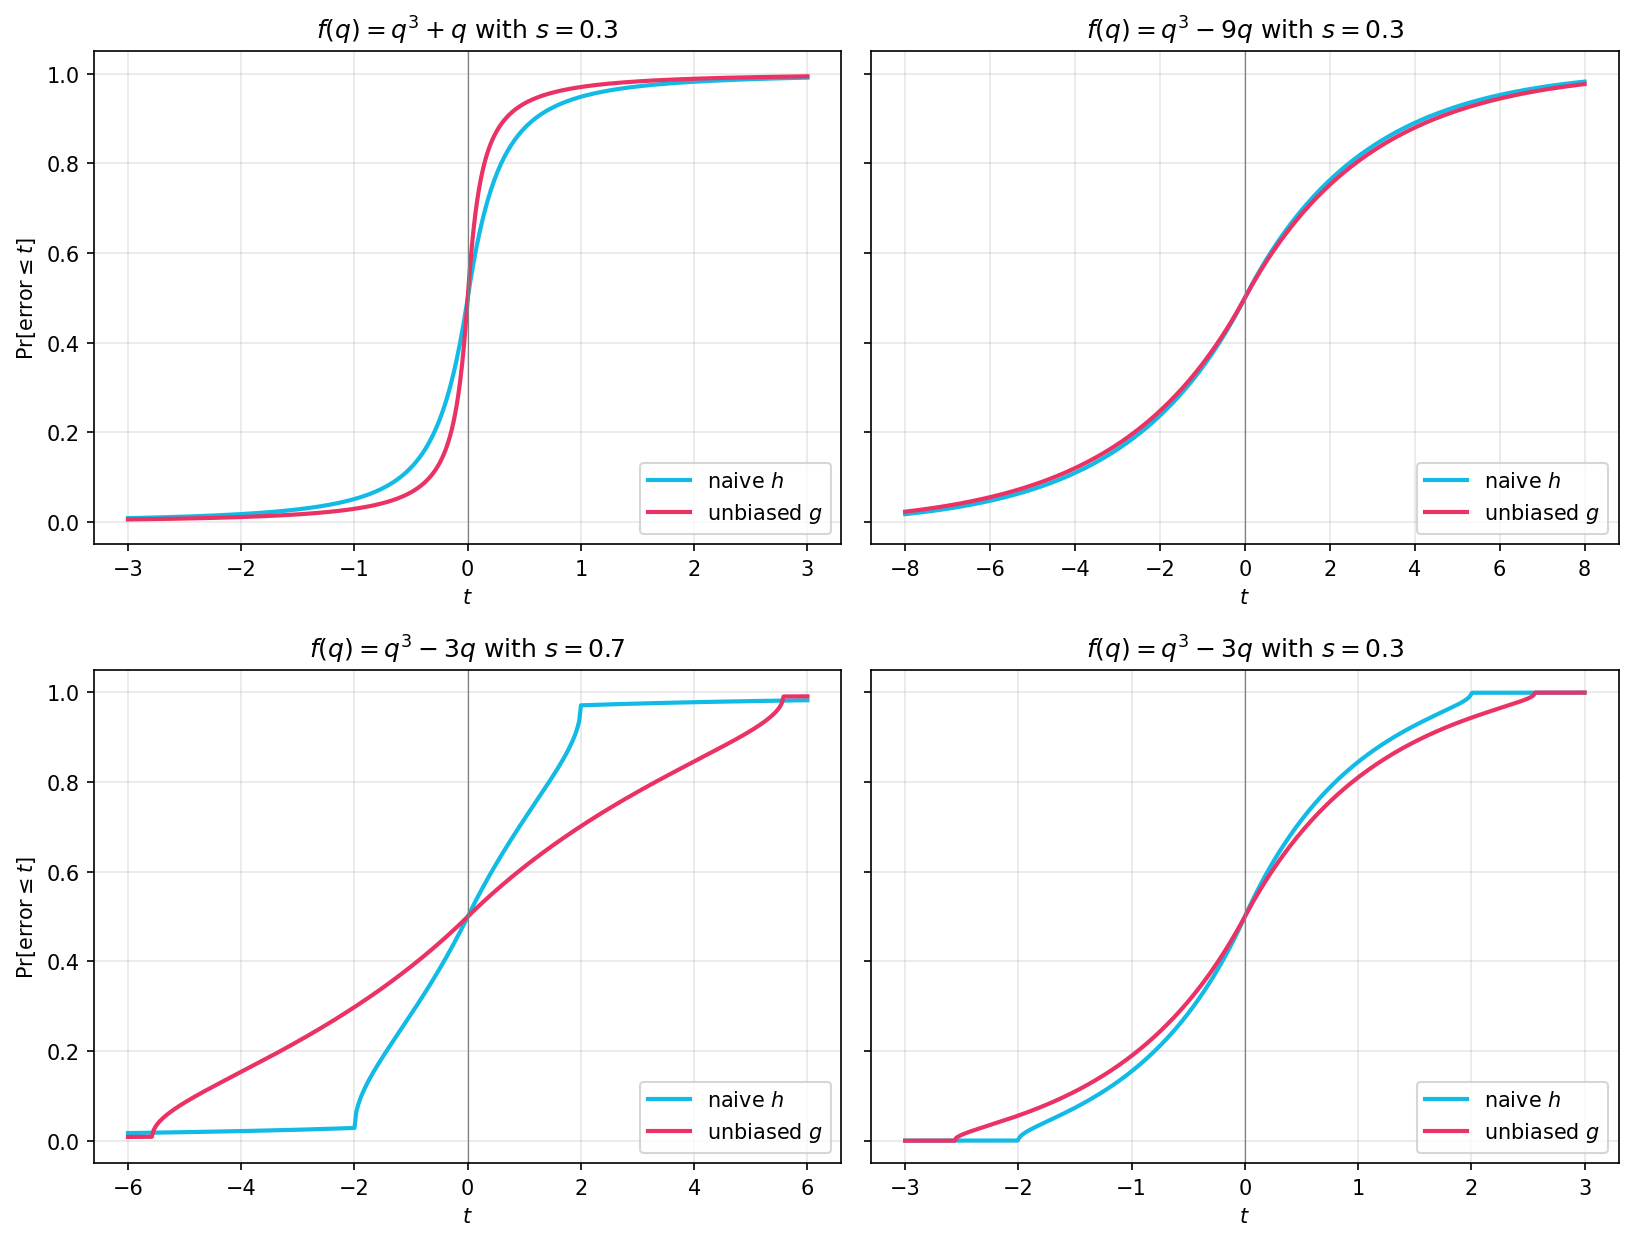
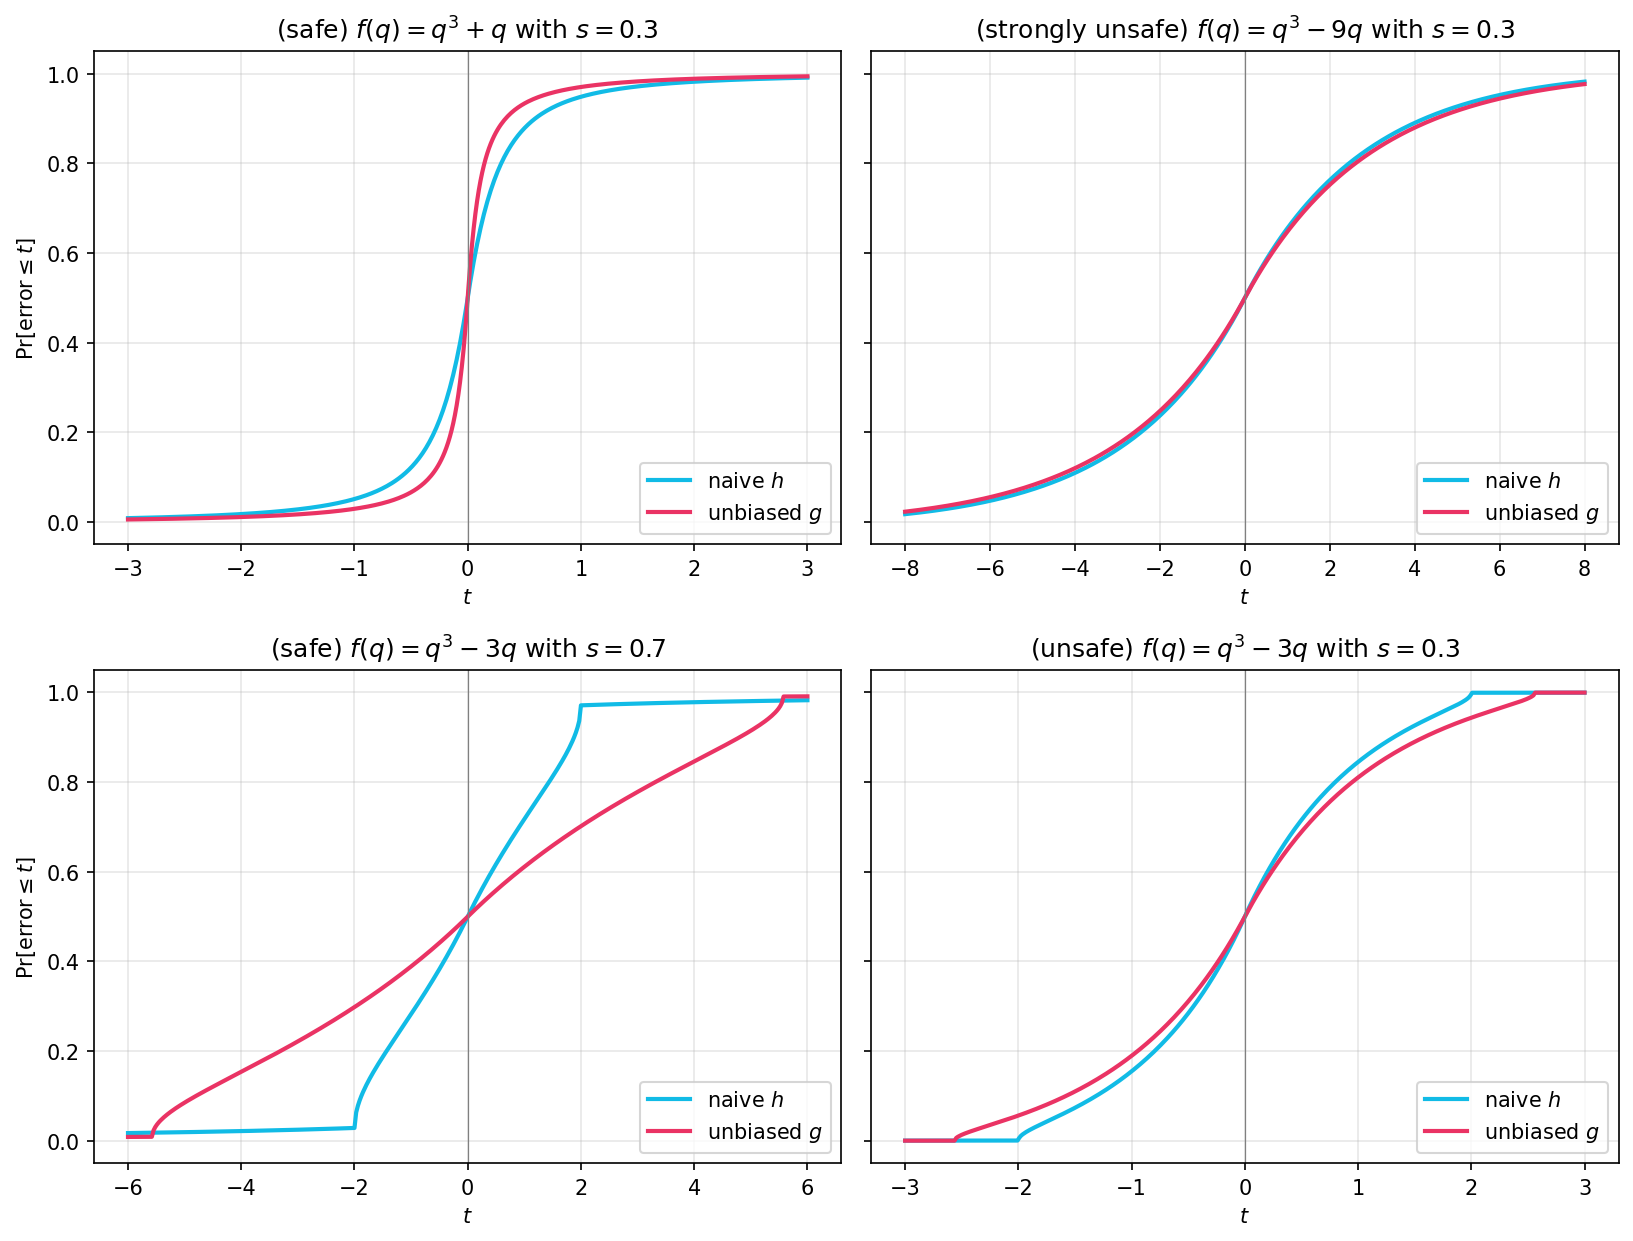
readme

diff --git a/scripts/run_cdf.py b/scripts/run_cdf.py
@@ -48,7 +48,7 @@ CASES = [
         "q_val":   0,
         "s_val":   0.3,         # epsilon ≈ 3.0, Delta = 1.0
         "t_range": (-3, 3), 
-        "label":   r"$f(q)=q^3+q$ with $s=0.3$",
+        "label":   r"(safe) $f(q)=q^3+q$ with $s=0.3$",
     },
     # Panel 2 — unsafe polynomial, but s > s*  →  effectively safe noise level
     {
@@ -56,7 +56,7 @@ CASES = [
         "q_val":   0,
         "s_val":   0.7,        # s=0.7 > s*≈0.58  →  safe
         "t_range": (-6, 6),
-        "label":   r"$f(q)=q^3-3q$ with $s=0.7$",
+        "label":   r"(safe) $f(q)=q^3-3q$ with $s=0.7$",
     },
     # Panel 3 — unsafe polynomial, s < s*  →  unsafe regime
     {
@@ -64,7 +64,7 @@ CASES = [
         "q_val":   0,
         "s_val":   0.3,         # s=0.3 < s*≈0.58  →  unsafe
         "t_range": (-3, 3),
-        "label":   r"$f(q)=q^3-3q$ with $s=0.3$",
+        "label":   r"(unsafe) $f(q)=q^3-3q$ with $s=0.3$",
     },
     # Panel 4 — more extreme unsafe polynomial, s << s*
     {
@@ -72,7 +72,7 @@ CASES = [
         "q_val":   0,
         "s_val":   0.3,         # s=0.3 << s*≈1.73  →  strongly unsafe
         "t_range": (-8, 8),
-        "label":   r"$f(q)=q^3-9q$ with $s=0.3$",
+        "label":   r"(strongly unsafe) $f(q)=q^3-9q$ with $s=0.3$",
     },
 ]
 # Baselines: q**3 

diff --git a/README.md b/README.md
@@ -1,8 +1,42 @@
+# Preface
 As the contributor of this repo is, in her heart, a Machine Learner (MLer), and NOT a Computer Scientist, the basics of "good code" was not a fundament of her professional education. Rather, when a MLer does their work; they code, they patch-up, they get their result, and then they throw their code in the trash,  never to look at it again. 
 Though sufficient for some task, this contributor deemed this approach inadequate for this project and leaned on her problem-solving skills, her structure (lol) and her stubbornness to come up with a better plan.
 Thus the structure of this code might not live up to the professionel expectations from an inherent Computer Sciencetist, but please, bear with this author, as her ML-DNA is showing within the lines of this code base.
-True to the heart of DIKU, some of this code has also been created while drunk.
+True to the heart of DIKU, some of this code has also been created while drinking.
 
+# Welcome! 
+This codebase exist as a product of the thesis "Bias-Variance Analysis of Polynomial Estimators under Differential Privacy" and serve as both a tool and a deliverable for the final project. It builds on the closed form expression of unbiased estimators from Theorem 10 by Calmon et al. and the linear system for general noise distributions from Theorem 22 by Calmon et al. 
+
+In the main folder, the main architecture lies; dp_estimators.py and noise_models.py. These files implements the main functionality of this repo, which includes:
+for any given univariate polynomial function, it is possible to: 
+\begin{itemize}
+
+    \item Compute the unbiased estimator under Laplace noise using the closed-form formula from Theorem 10 (the \texttt{LaplaceNoiseModel} class).
+
+    \item Compute the unbiased estimator under Gaussian noise by solving the linear system from the proof of Theorem 22 (the \texttt{GaussianNoiseModel} class inheriting from the \texttt{NoiseModel} class).
+
+    \item Compute the naive estimator.
+
+    \item Compute analysis of all estimators including mean, bias (for the naive), variance and MSE. 
+
+    \item Compare different estimators for said function by computing gaps between analysis measures.
+    
+\end{itemize} 
+
+# User Guide
+
+
+Important!
+When using the library, remember that SymPy uses SYMBOLIC expressions and functions. Therefor the symbols needs to be defined as "symbolic", i.e.:
+
+    Delta = sp.Symbol("Delta", real=True, positive=True)
+    epsilon = sp.Symbol("epsilon", real=True, positive=True)
+    q = sp.Symbol("q", real=True)
+    X = sp.Symbol("X", real=True)
+
+And then later substituted with real values. This property is fundamental for this code base. 
+
+# Dependencies
 ------------------------ Dependencies ------------------------------
 
     All files: 
@@ -69,75 +103,27 @@ True to the heart of DIKU, some of this code has also been created while drunk.
 
 ----------------------- Dependencies --------------------------------
 
-When using the library, remember that SymPy uses SYMBOLIC expressions and functions. Therefor the symbols needs to be defined as "symbolic", i.e.:
+# Design
+The main modules are in the files dp_estimators.py and noise_models.py. 
+The four classes in \texttt{dp\_estimators.py} are:
+\begin{itemize}
+    \item EstimatorSystem: the main interface for users to interact with the system, providing methods for getting estimators and comparing them.
+    \item ComparisonReport: responsible for generating a report for a given polynomial function.
+    \item EstimatorContext: responsible for managing different noise/estimation strategies and providing methods for getting naive and unbiased estimators.
+    \item EstimatorAnalyzer: responsible for analyzing the properties of estimators, such as calculating mean, variance etc, using the noise model's moment calculations.
+\end{itemize}
+The three classes in \texttt{noise\_models.py} are:
+\begin{itemize}
+    \item NoiseModel: an abstract base class defining the interface for the possible noise distributions. Further it implements the linear system from Section \ref{section_GeneralNoiseDistributions} as a fallback method for the unbiased transform.
+    \item LaplaceNoiseModel: a concrete strategy class calculating the unbiased transformation of a polynomial under Laplace noise.
+    \item GaussianNoiseModel: a concrete strategy class that inherits the fallback method from the NoiseModel class.
+\end{itemize}
 
-    Delta = sp.Symbol("Delta", real=True, positive=True)
-    epsilon = sp.Symbol("epsilon", real=True, positive=True)
-    q = sp.Symbol("q", real=True)
-    X = sp.Symbol("X", real=True)
+The code structure follows the Facade design pattern, where the EstimatorSystem class provides a simplified interface to the complex subsystem of noise models, estimation strategies, and analysis. The user of the code base only interacts with the class EstimatorSystem, and instances of the other classes are initiated through this class, except for the ComparisonReport which though still needs and instance of EstimatorSystem as input. EstimatorSystem is also responsible for delegating the comparison of estimator of a given polynomial function to the ComparisonReport class. 
 
-And then later substituted with real values. This property is fundamental for this code base. 
+Further it follows the Strategy design pattern,where the EstimatorContext class manages different estimation strategies. This includes which type of noise the unbiased estimator should employ. The class NoiseModel defines a common abstract interface for noise models, thus supporting different noise distributions. The two classes, LaplaceNoiseModel and GaussianNoiseModel inherits NoiseModel and provide concrete implementations of this interface. When EstimatorContext is initiated, it maintains a reference to the object created from one of the concrete strategies. EstimatorContext interacts with this object only through the interface defined by NoiseModel. 
+Further EstimatorContext also produces the naive estimator. 
 
+The EstimatorAnalyzer class manages the \textit{analysis} of any of the estimators, i.e. it creates corresponding mean, variance, MSE and bias. It serves the same purpose as the "Context" in the Strategy pattern, only here the estimator and analysis of the estimator are split into two classes to avoid overloading the EstimatorContext class. 
 
-New files:
-
-    monte_carlo/simulation.py
-    scripts/run_monte_carlo_study.py
-    plotting/plot_monte_carlo_study.py
-
-Purpose:
-
-    Empirically compare naive vs unbiased estimators for high-order polynomials
-    under Laplace and Gaussian noise, while validating against symbolic theory.
-     The study now includes coefficient sweeps, so the empirical plots can be
-     compared directly against the quadratic and cubic derivations and then
-     extended to higher-degree families.
-
-Run:
-
-    python3 scripts/run_monte_carlo_study.py
-
-    # quick run (smaller sample size / faster)
-    python3 scripts/run_monte_carlo_study.py --quick --samples 15000 --seed 1337
-     # coefficient-only study
-     python3 scripts/run_monte_carlo_study.py --study-mode coefficients --samples 15000 --seed 1337
-
-What it does:
-
-    - Builds symbolic estimators using EstimatorSystem
-    - Substitutes all non-swept symbols numerically before runtime
-    - Samples noise and computes empirical mean/variance/MSE/bias
-    - Prints symbolic metrics and empirical-vs-symbolic errors
-     - Sweeps polynomial coefficients for quadratic, cubic, and higher-degree
-        families so coefficient sensitivity is visible in the Monte Carlo data
-    - Saves a CSV file at reports/monte_carlo/monte_carlo_results.csv
-
-Plot summaries:
-
-    python3 plotting/plot_monte_carlo_study.py
-
-    # focus degree-trend plots at q=1.0 (default)
-    python3 plotting/plot_monte_carlo_study.py --q-focus 1.0
-     The plotting script also produces per-family coefficient-sweep summaries.
-
-Presentation figure:
-
-    python3 plotting/plot_symbolic_presentation.py --output-dir plots/presentation
-
-    # recommended epsilon set for the main presentation figure
-    python3 plotting/plot_symbolic_presentation.py --output-dir plots/presentation --epsilons 0.5 1.0 2.0
-
-This creates a compact 2x2 symbolic summary for the baseline quadratic,
-transition cubic, Chebyshev exception, and a coefficient-sensitive cubic.
-The MSE figure is the best candidate for the main text; the variance figure
-is useful as a supporting or appendix graphic.
-
-Notes:
-
-    - For Gaussian runs, sigma is calibrated from (epsilon, delta, Delta)
-      using dp_calibration/SigmaFromEpsilon.py.
-    - For high-order polynomials, variance can be extremely large; empirical
-      convergence may require many more Monte Carlo samples than low-order cases.
-     - The coefficient sweeps are intentionally small and structured so the
-        quadratic and cubic empirical results can be checked against the theory
-        before interpreting higher-degree behavior.
+The ComparisonReport class is responsible for generating a report comparing the naive and unbiased estimators for a given polynomial function, by calculating their means, variances, MSE, bias and the gaps between them. Different specifications are possible, depending on whether the user wants to get a quick overview of the estimators of a polynomial in the terminal or rather wants to get a report printed on PDF.